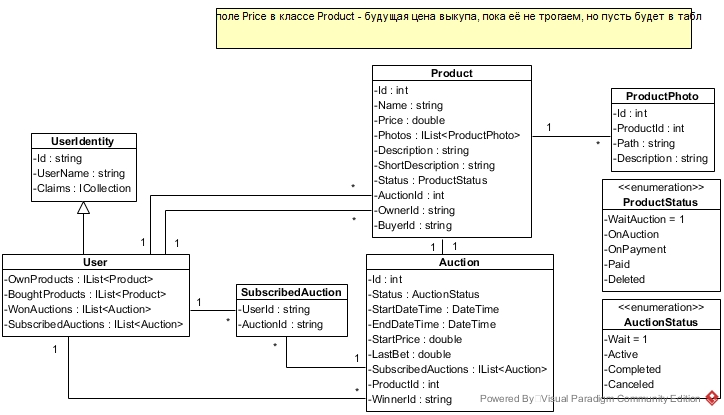
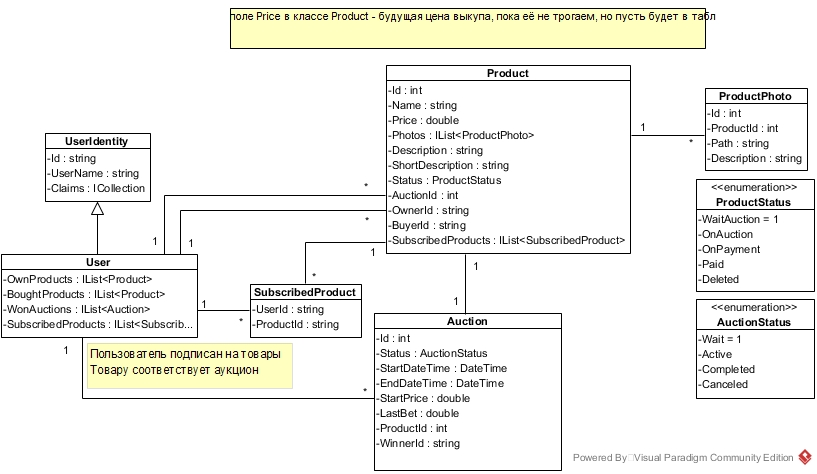
Изменил подписку пользователя: с "подписки на аукцион" на "подписку на товар" (SubscribedProduct)

Changed region(s): [[0.0, 0.0, 1.0, 1.0]]

diff --git a/Auctionator/Auctionator/Data/Migrations/20181128081318_auction-0.6.cs b/Auctionator/Auctionator/Data/Migrations/20181128081318_auction-0.6.cs
@@ -1,0 +1,77 @@
+using Microsoft.EntityFrameworkCore.Migrations;
+
+namespace Auctionator.Data.Migrations
+{
+    public partial class auction06 : Migration
+    {
+        protected override void Up(MigrationBuilder migrationBuilder)
+        {
+            migrationBuilder.DropTable(
+                name: "SubscribedAuctions");
+
+            migrationBuilder.CreateTable(
+                name: "SubscribedProducts",
+                columns: table => new
+                {
+                    UserId = table.Column<string>(nullable: false),
+                    ProductId = table.Column<int>(nullable: false)
+                },
+                constraints: table =>
+                {
+                    table.PrimaryKey("PK_SubscribedProducts", x => new { x.UserId, x.ProductId });
+                    table.ForeignKey(
+                        name: "FK_SubscribedProducts_Products_ProductId",
+                        column: x => x.ProductId,
+                        principalTable: "Products",
+                        principalColumn: "Id",
+                        onDelete: ReferentialAction.Cascade);
+                    table.ForeignKey(
+                        name: "FK_SubscribedProducts_AspNetUsers_UserId",
+                        column: x => x.UserId,
+                        principalTable: "AspNetUsers",
+                        principalColumn: "Id",
+                        onDelete: ReferentialAction.Cascade);
+                });
+
+            migrationBuilder.CreateIndex(
+                name: "IX_SubscribedProducts_ProductId",
+                table: "SubscribedProducts",
+                column: "ProductId");
+        }
+
+        protected override void Down(MigrationBuilder migrationBuilder)
+        {
+            migrationBuilder.DropTable(
+                name: "SubscribedProducts");
+
+            migrationBuilder.CreateTable(
+                name: "SubscribedAuctions",
+                columns: table => new
+                {
+                    UserId = table.Column<string>(nullable: false),
+                    AuctionId = table.Column<int>(nullable: false)
+                },
+                constraints: table =>
+                {
+                    table.PrimaryKey("PK_SubscribedAuctions", x => new { x.UserId, x.AuctionId });
+                    table.ForeignKey(
+                        name: "FK_SubscribedAuctions_Auctions_AuctionId",
+                        column: x => x.AuctionId,
+                        principalTable: "Auctions",
+                        principalColumn: "Id",
+                        onDelete: ReferentialAction.Cascade);
+                    table.ForeignKey(
+                        name: "FK_SubscribedAuctions_AspNetUsers_UserId",
+                        column: x => x.UserId,
+                        principalTable: "AspNetUsers",
+                        principalColumn: "Id",
+                        onDelete: ReferentialAction.Cascade);
+                });
+
+            migrationBuilder.CreateIndex(
+                name: "IX_SubscribedAuctions_AuctionId",
+                table: "SubscribedAuctions",
+                column: "AuctionId");
+        }
+    }
+}

diff --git a/Auctionator/Auctionator/Data/ApplicationDbContext.cs b/Auctionator/Auctionator/Data/ApplicationDbContext.cs
@@ -15,7 +15,7 @@ namespace Auctionator.Data
         public DbSet<Product> Products { get; set; }
         public DbSet<ProductPhoto> ProductPhotos { get; set; }
         public DbSet<Auction> Auctions { get; set; }
-        public DbSet<SubscribedAuction> SubscribedAuctions { get; set; }
+        public DbSet<SubscribedProduct> SubscribedProducts { get; set; }
 
         protected override void OnModelCreating(ModelBuilder modelBuilder)
         {
@@ -25,7 +25,7 @@ namespace Auctionator.Data
             modelBuilder.ApplyConfiguration(new ProductMap());
             modelBuilder.ApplyConfiguration(new ProductPhotoMap());
             modelBuilder.ApplyConfiguration(new AuctionMap());
-            modelBuilder.ApplyConfiguration(new SubscribedAuctionMap());
+            modelBuilder.ApplyConfiguration(new SubscribedProductMap());
         }
     }
 }

diff --git a/Auctionator/Auctionator/Data/Mappings/SubscribedProductMap.cs b/Auctionator/Auctionator/Data/Mappings/SubscribedProductMap.cs
@@ -1,0 +1,20 @@
+using System;
+using System.Collections.Generic;
+using System.Linq;
+using System.Threading.Tasks;
+using Microsoft.EntityFrameworkCore;
+using Microsoft.EntityFrameworkCore.Metadata.Builders;
+using Auctionator.Models;
+
+namespace Auctionator.Data.Mappings
+{
+    public class SubscribedProductMap : IEntityTypeConfiguration<SubscribedProduct>
+    {
+        public void Configure(EntityTypeBuilder<SubscribedProduct> builder)
+        {
+            builder.HasKey(x => new {x.UserId, x.ProductId});
+            builder.HasOne(x => x.User).WithMany(x => x.SubscribedProducts).HasForeignKey(x => x.UserId);
+            builder.HasOne(x => x.Product).WithMany(x => x.SubscribedProducts).HasForeignKey(x => x.ProductId);
+        }
+    }
+}

diff --git a/Auctionator/Auctionator/Data/Migrations/20181128081318_auction-0.6.Designer.cs b/Auctionator/Auctionator/Data/Migrations/20181128081318_auction-0.6.Designer.cs
@@ -4,14 +4,16 @@ using Auctionator.Data;
 using Microsoft.EntityFrameworkCore;
 using Microsoft.EntityFrameworkCore.Infrastructure;
 using Microsoft.EntityFrameworkCore.Metadata;
+using Microsoft.EntityFrameworkCore.Migrations;
 using Microsoft.EntityFrameworkCore.Storage.ValueConversion;
 
 namespace Auctionator.Data.Migrations
 {
     [DbContext(typeof(ApplicationDbContext))]
-    partial class ApplicationDbContextModelSnapshot : ModelSnapshot
+    [Migration("20181128081318_auction-0.6")]
+    partial class auction06
     {
-        protected override void BuildModel(ModelBuilder modelBuilder)
+        protected override void BuildTargetModel(ModelBuilder modelBuilder)
         {
 #pragma warning disable 612, 618
             modelBuilder

diff --git a/Auctionator/Auctionator/Models/User.cs b/Auctionator/Auctionator/Models/User.cs
@@ -20,12 +20,12 @@ namespace Auctionator.Models
         /// </summary>
         public IList<Product> BoughtProducts { get; set; }
         /// <summary>
+        /// Товары, на которые пользователь подписан
+        /// </summary>
+        public IList<SubscribedProduct> SubscribedProducts { get; set; }
+        /// <summary>
         /// Аукционы, выигранные пользователем
         /// </summary>
         public IList<Auction> WonAuctions { get; set; }
-        /// <summary>
-        /// Аукционы, на которые пользователь подписан
-        /// </summary>
-        public IList<SubscribedAuction> SubscribedAuctions { get; set; }
     }
 }

diff --git a/Auctionator/Auctionator/Models/Product.cs b/Auctionator/Auctionator/Models/Product.cs
@@ -14,8 +14,9 @@ namespace Auctionator.Models
         public IList<ProductPhoto> Photos { get; set; }
         public string Description { get; set; }
         public string ShortDescription { get; set; }
-        public ProductStatus Status { get; set; } 
+        public ProductStatus Status { get; set; }
 
+        public IList<SubscribedProduct> SubscribedProducts { get; set; }
         public int AuctionId { get; set; }
         public Auction Auction { get; set; }
         public string OwnerId { get; set; }

diff --git a/Auctionator/Auctionator/Models/Auction.cs b/Auctionator/Auctionator/Models/Auction.cs
@@ -16,7 +16,6 @@ namespace Auctionator.Models
         public double LastBet { get; set; } // Последняя ставка (цена) на данный момент
         public int ProductId { get; set; }
         public Product Product { get; set; }
-        public IList<SubscribedAuction> SubscribedAuctions { get; set; }
         public string WinnerId { get; set; } // Победитель на данный момент
         public User Winner { get; set; }
     }

diff --git a/Auctionator/Auctionator/Models/SubscribedProduct.cs b/Auctionator/Auctionator/Models/SubscribedProduct.cs
@@ -5,11 +5,11 @@ using System.Threading.Tasks;
 
 namespace Auctionator.Models
 {
-    public class SubscribedAuction 
+    public class SubscribedProduct 
     {
         public string UserId { get; set; }
         public User User { get; set; }
-        public int AuctionId { get; set; }
-        public Auction Auction { get; set; }
+        public int ProductId { get; set; }
+        public Product Product { get; set; }
     }
 }
